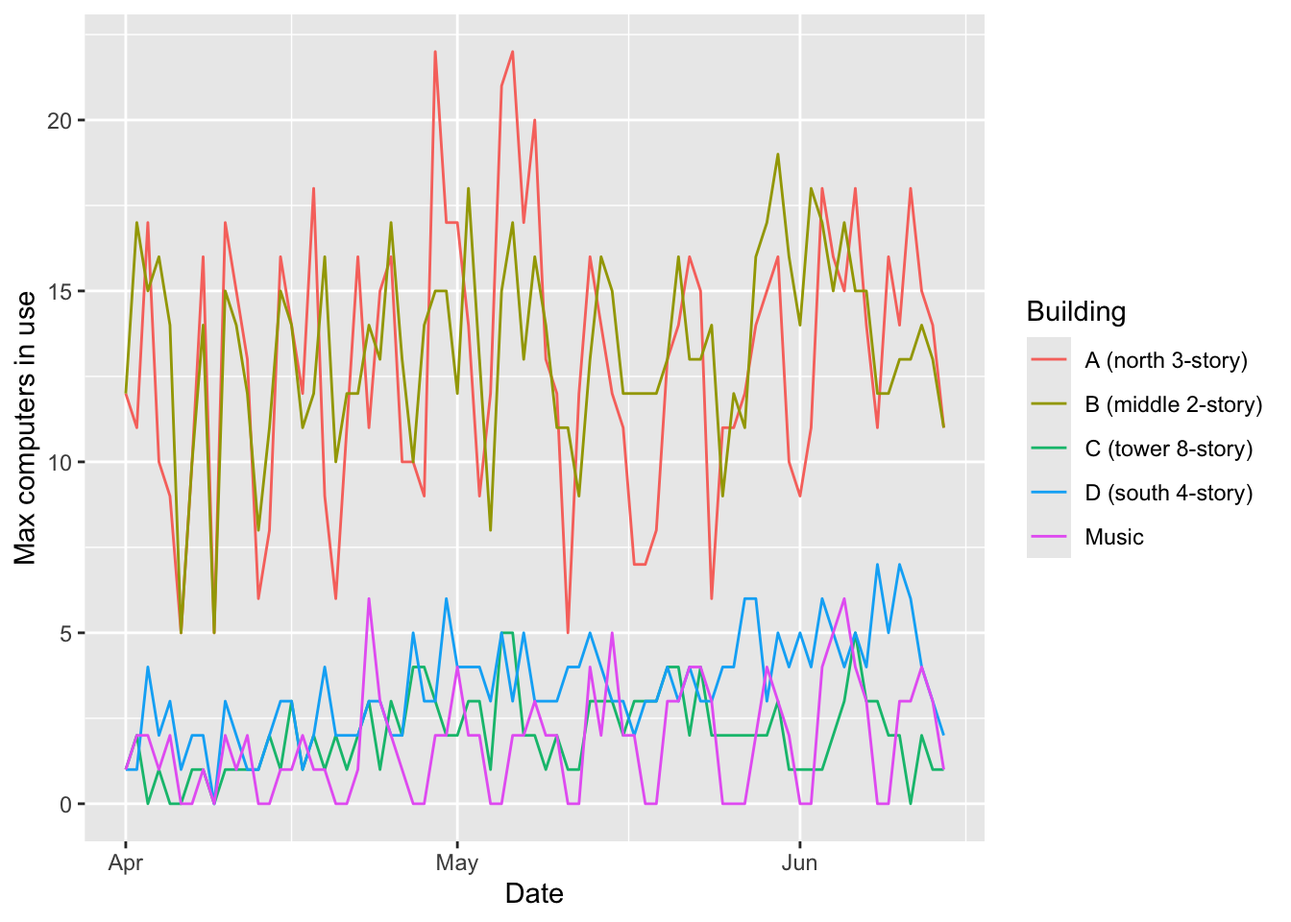
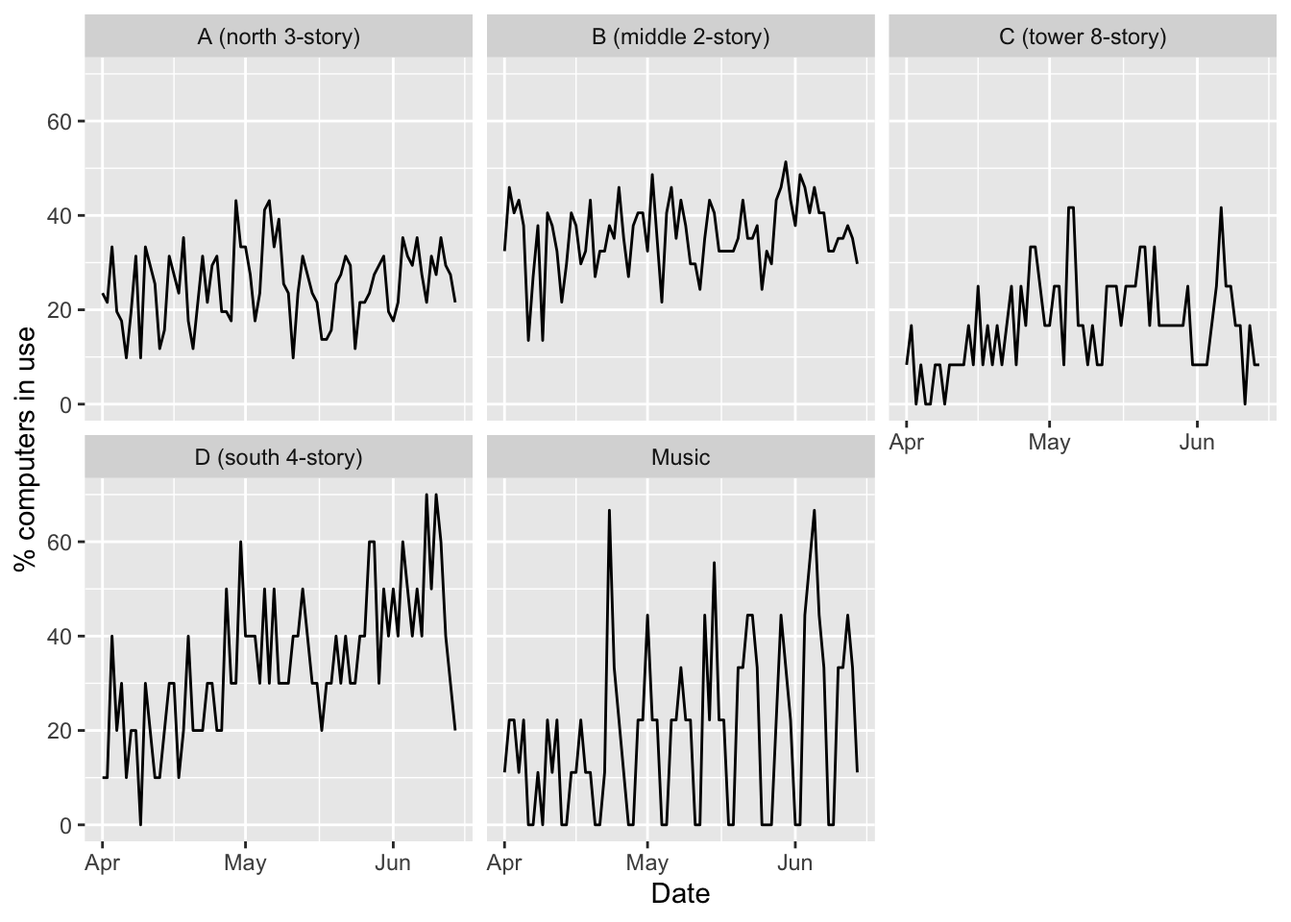
Add percentages to peak usage calculations

diff --git a/stats.html b/stats.html
@@ -254,15 +254,20 @@ pre > code.sourceCode > span > a:first-child::before { text-decoration: underlin
 <span id="cb2-67"><a href="#cb2-67" aria-hidden="true" tabindex="-1"></a>  <span class="fu">arrange</span>(building, floor)</span>
 <span id="cb2-68"><a href="#cb2-68" aria-hidden="true" tabindex="-1"></a></span>
 <span id="cb2-69"><a href="#cb2-69" aria-hidden="true" tabindex="-1"></a><span class="co"># Number of computers in each area (inferred from data, not ground</span></span>
-<span id="cb2-70"><a href="#cb2-70" aria-hidden="true" tabindex="-1"></a><span class="co"># truth)</span></span>
+<span id="cb2-70"><a href="#cb2-70" aria-hidden="true" tabindex="-1"></a><span class="co"># truth)...</span></span>
 <span id="cb2-71"><a href="#cb2-71" aria-hidden="true" tabindex="-1"></a>computers <span class="ot">&lt;-</span> <span class="fu">unique</span>(<span class="fu">select</span>(data, building, floor, area, computer)) <span class="sc">%&gt;%</span></span>
 <span id="cb2-72"><a href="#cb2-72" aria-hidden="true" tabindex="-1"></a>  <span class="fu">group_by</span>(building, floor, area) <span class="sc">%&gt;%</span></span>
 <span id="cb2-73"><a href="#cb2-73" aria-hidden="true" tabindex="-1"></a>  <span class="fu">summarize</span>(<span class="at">num_computers=</span><span class="fu">n</span>())</span>
 <span id="cb2-74"><a href="#cb2-74" aria-hidden="true" tabindex="-1"></a></span>
-<span id="cb2-75"><a href="#cb2-75" aria-hidden="true" tabindex="-1"></a><span class="co"># For convenience, create a dataframe that counts numbers of logins</span></span>
-<span id="cb2-76"><a href="#cb2-76" aria-hidden="true" tabindex="-1"></a>login_data <span class="ot">&lt;-</span> data <span class="sc">%&gt;%</span></span>
-<span id="cb2-77"><a href="#cb2-77" aria-hidden="true" tabindex="-1"></a>  <span class="fu">group_by</span>(<span class="at">date=</span><span class="fu">date</span>(login_time), building, floor, area) <span class="sc">%&gt;%</span></span>
-<span id="cb2-78"><a href="#cb2-78" aria-hidden="true" tabindex="-1"></a>  <span class="fu">summarize</span>(<span class="at">num_logins=</span><span class="fu">n</span>())</span></code><button title="Copy to Clipboard" class="code-copy-button"><i class="bi"></i></button></pre></div>
+<span id="cb2-75"><a href="#cb2-75" aria-hidden="true" tabindex="-1"></a><span class="co"># ...and by building</span></span>
+<span id="cb2-76"><a href="#cb2-76" aria-hidden="true" tabindex="-1"></a>computers_by_building <span class="ot">&lt;-</span> computers <span class="sc">%&gt;%</span></span>
+<span id="cb2-77"><a href="#cb2-77" aria-hidden="true" tabindex="-1"></a>  <span class="fu">group_by</span>(building) <span class="sc">%&gt;%</span></span>
+<span id="cb2-78"><a href="#cb2-78" aria-hidden="true" tabindex="-1"></a>  <span class="fu">summarize</span>(<span class="at">num_computers=</span><span class="fu">sum</span>(num_computers))</span>
+<span id="cb2-79"><a href="#cb2-79" aria-hidden="true" tabindex="-1"></a></span>
+<span id="cb2-80"><a href="#cb2-80" aria-hidden="true" tabindex="-1"></a><span class="co"># For convenience, create a dataframe that counts numbers of logins</span></span>
+<span id="cb2-81"><a href="#cb2-81" aria-hidden="true" tabindex="-1"></a>login_data <span class="ot">&lt;-</span> data <span class="sc">%&gt;%</span></span>
+<span id="cb2-82"><a href="#cb2-82" aria-hidden="true" tabindex="-1"></a>  <span class="fu">group_by</span>(<span class="at">date=</span><span class="fu">date</span>(login_time), building, floor, area) <span class="sc">%&gt;%</span></span>
+<span id="cb2-83"><a href="#cb2-83" aria-hidden="true" tabindex="-1"></a>  <span class="fu">summarize</span>(<span class="at">num_logins=</span><span class="fu">n</span>())</span></code><button title="Copy to Clipboard" class="code-copy-button"><i class="bi"></i></button></pre></div>
 </div>
 </section>
 <section id="analysis" class="level1">
@@ -805,25 +810,21 @@ pre > code.sourceCode > span > a:first-child::before { text-decoration: underlin
 <div class="cell">
 <details class="code-fold">
 <summary>Code</summary>
-<div class="sourceCode cell-code" id="cb20"><pre class="sourceCode r code-with-copy"><code class="sourceCode r"><span id="cb20-1"><a href="#cb20-1" aria-hidden="true" tabindex="-1"></a>computers_by_building <span class="ot">&lt;-</span> computers <span class="sc">%&gt;%</span></span>
-<span id="cb20-2"><a href="#cb20-2" aria-hidden="true" tabindex="-1"></a>  <span class="fu">group_by</span>(building) <span class="sc">%&gt;%</span></span>
-<span id="cb20-3"><a href="#cb20-3" aria-hidden="true" tabindex="-1"></a>  <span class="fu">summarize</span>(<span class="at">num_computers=</span><span class="fu">sum</span>(num_computers))</span>
-<span id="cb20-4"><a href="#cb20-4" aria-hidden="true" tabindex="-1"></a></span>
-<span id="cb20-5"><a href="#cb20-5" aria-hidden="true" tabindex="-1"></a>data <span class="sc">%&gt;%</span></span>
-<span id="cb20-6"><a href="#cb20-6" aria-hidden="true" tabindex="-1"></a>  <span class="fu">group_by</span>(</span>
-<span id="cb20-7"><a href="#cb20-7" aria-hidden="true" tabindex="-1"></a>    <span class="st">`</span><span class="at">Exam week?</span><span class="st">`</span><span class="ot">=</span><span class="fu">in_exam_week</span>(login_time),</span>
-<span id="cb20-8"><a href="#cb20-8" aria-hidden="true" tabindex="-1"></a>    building,</span>
-<span id="cb20-9"><a href="#cb20-9" aria-hidden="true" tabindex="-1"></a>    <span class="fu">date</span>(login_time)</span>
-<span id="cb20-10"><a href="#cb20-10" aria-hidden="true" tabindex="-1"></a>  ) <span class="sc">%&gt;%</span></span>
-<span id="cb20-11"><a href="#cb20-11" aria-hidden="true" tabindex="-1"></a>  <span class="fu">summarize</span>(<span class="at">minutes_used=</span><span class="fu">sum</span>(session_minutes)) <span class="sc">%&gt;%</span></span>
-<span id="cb20-12"><a href="#cb20-12" aria-hidden="true" tabindex="-1"></a>  <span class="fu">group_by</span>(<span class="st">`</span><span class="at">Exam week?</span><span class="st">`</span>, <span class="at">Building=</span>building) <span class="sc">%&gt;%</span></span>
-<span id="cb20-13"><a href="#cb20-13" aria-hidden="true" tabindex="-1"></a>  <span class="fu">summarize</span>(<span class="at">avg_minutes_used=</span><span class="fu">mean</span>(minutes_used)) <span class="sc">%&gt;%</span></span>
-<span id="cb20-14"><a href="#cb20-14" aria-hidden="true" tabindex="-1"></a>  <span class="fu">inner_join</span>(computers_by_building, <span class="at">by=</span><span class="fu">join_by</span>(Building<span class="sc">==</span>building)) <span class="sc">%&gt;%</span></span>
-<span id="cb20-15"><a href="#cb20-15" aria-hidden="true" tabindex="-1"></a>  <span class="fu">mutate</span>(</span>
-<span id="cb20-16"><a href="#cb20-16" aria-hidden="true" tabindex="-1"></a>    <span class="st">`</span><span class="at">% occupied</span><span class="st">`</span><span class="ot">=</span><span class="fu">round</span>(avg_minutes_used<span class="sc">/</span>(num_computers<span class="sc">*</span>open_minutes)<span class="sc">*</span><span class="dv">100</span>, <span class="dv">0</span>)</span>
-<span id="cb20-17"><a href="#cb20-17" aria-hidden="true" tabindex="-1"></a>  ) <span class="sc">%&gt;%</span></span>
-<span id="cb20-18"><a href="#cb20-18" aria-hidden="true" tabindex="-1"></a>  <span class="fu">ggplot</span>(<span class="fu">aes</span>(<span class="at">x=</span>Building, <span class="at">y=</span><span class="st">`</span><span class="at">% occupied</span><span class="st">`</span>, <span class="at">fill=</span><span class="st">`</span><span class="at">Exam week?</span><span class="st">`</span>)) <span class="sc">+</span></span>
-<span id="cb20-19"><a href="#cb20-19" aria-hidden="true" tabindex="-1"></a>    <span class="fu">geom_bar</span>(<span class="at">stat=</span><span class="st">"identity"</span>, <span class="at">position=</span><span class="st">"dodge"</span>)</span></code><button title="Copy to Clipboard" class="code-copy-button"><i class="bi"></i></button></pre></div>
+<div class="sourceCode cell-code" id="cb20"><pre class="sourceCode r code-with-copy"><code class="sourceCode r"><span id="cb20-1"><a href="#cb20-1" aria-hidden="true" tabindex="-1"></a>data <span class="sc">%&gt;%</span></span>
+<span id="cb20-2"><a href="#cb20-2" aria-hidden="true" tabindex="-1"></a>  <span class="fu">group_by</span>(</span>
+<span id="cb20-3"><a href="#cb20-3" aria-hidden="true" tabindex="-1"></a>    <span class="st">`</span><span class="at">Exam week?</span><span class="st">`</span><span class="ot">=</span><span class="fu">in_exam_week</span>(login_time),</span>
+<span id="cb20-4"><a href="#cb20-4" aria-hidden="true" tabindex="-1"></a>    building,</span>
+<span id="cb20-5"><a href="#cb20-5" aria-hidden="true" tabindex="-1"></a>    <span class="fu">date</span>(login_time)</span>
+<span id="cb20-6"><a href="#cb20-6" aria-hidden="true" tabindex="-1"></a>  ) <span class="sc">%&gt;%</span></span>
+<span id="cb20-7"><a href="#cb20-7" aria-hidden="true" tabindex="-1"></a>  <span class="fu">summarize</span>(<span class="at">minutes_used=</span><span class="fu">sum</span>(session_minutes)) <span class="sc">%&gt;%</span></span>
+<span id="cb20-8"><a href="#cb20-8" aria-hidden="true" tabindex="-1"></a>  <span class="fu">group_by</span>(<span class="st">`</span><span class="at">Exam week?</span><span class="st">`</span>, <span class="at">Building=</span>building) <span class="sc">%&gt;%</span></span>
+<span id="cb20-9"><a href="#cb20-9" aria-hidden="true" tabindex="-1"></a>  <span class="fu">summarize</span>(<span class="at">avg_minutes_used=</span><span class="fu">mean</span>(minutes_used)) <span class="sc">%&gt;%</span></span>
+<span id="cb20-10"><a href="#cb20-10" aria-hidden="true" tabindex="-1"></a>  <span class="fu">inner_join</span>(computers_by_building, <span class="at">by=</span><span class="fu">join_by</span>(Building<span class="sc">==</span>building)) <span class="sc">%&gt;%</span></span>
+<span id="cb20-11"><a href="#cb20-11" aria-hidden="true" tabindex="-1"></a>  <span class="fu">mutate</span>(</span>
+<span id="cb20-12"><a href="#cb20-12" aria-hidden="true" tabindex="-1"></a>    <span class="st">`</span><span class="at">% occupied</span><span class="st">`</span><span class="ot">=</span><span class="fu">round</span>(avg_minutes_used<span class="sc">/</span>(num_computers<span class="sc">*</span>open_minutes)<span class="sc">*</span><span class="dv">100</span>, <span class="dv">0</span>)</span>
+<span id="cb20-13"><a href="#cb20-13" aria-hidden="true" tabindex="-1"></a>  ) <span class="sc">%&gt;%</span></span>
+<span id="cb20-14"><a href="#cb20-14" aria-hidden="true" tabindex="-1"></a>  <span class="fu">ggplot</span>(<span class="fu">aes</span>(<span class="at">x=</span>Building, <span class="at">y=</span><span class="st">`</span><span class="at">% occupied</span><span class="st">`</span>, <span class="at">fill=</span><span class="st">`</span><span class="at">Exam week?</span><span class="st">`</span>)) <span class="sc">+</span></span>
+<span id="cb20-15"><a href="#cb20-15" aria-hidden="true" tabindex="-1"></a>    <span class="fu">geom_bar</span>(<span class="at">stat=</span><span class="st">"identity"</span>, <span class="at">position=</span><span class="st">"dodge"</span>)</span></code><button title="Copy to Clipboard" class="code-copy-button"><i class="bi"></i></button></pre></div>
 </details>
 <div class="cell-output-display">
 <div>
@@ -904,13 +905,16 @@ pre > code.sourceCode > span > a:first-child::before { text-decoration: underlin
 </div>
 <section id="overall-maximums-by-area" class="level3">
 <h3 class="anchored" data-anchor-id="overall-maximums-by-area">Overall maximums, by area</h3>
-<p>Again, this is counting computers that are in simultaneous use.</p>
+<p>Again, this is counting computers that are in simultaneous use. And the comment under <a href="#occupancy">Occupancy</a> above applies here as well: the number of computers in each area is inferred from those mentioned in the Cybrarian input data.</p>
 <div class="cell">
 <details class="code-fold">
 <summary>Code</summary>
 <div class="sourceCode cell-code" id="cb23"><pre class="sourceCode r code-with-copy"><code class="sourceCode r"><span id="cb23-1"><a href="#cb23-1" aria-hidden="true" tabindex="-1"></a>in_use_data <span class="sc">%&gt;%</span></span>
 <span id="cb23-2"><a href="#cb23-2" aria-hidden="true" tabindex="-1"></a>  <span class="fu">group_by</span>(<span class="at">Building=</span>building, <span class="at">Floor=</span>floor) <span class="sc">%&gt;%</span></span>
-<span id="cb23-3"><a href="#cb23-3" aria-hidden="true" tabindex="-1"></a>  <span class="fu">summarize</span>(<span class="st">`</span><span class="at">Max computers in use</span><span class="st">`</span><span class="ot">=</span><span class="fu">max</span>(num_in_use))</span></code><button title="Copy to Clipboard" class="code-copy-button"><i class="bi"></i></button></pre></div>
+<span id="cb23-3"><a href="#cb23-3" aria-hidden="true" tabindex="-1"></a>  <span class="fu">summarize</span>(<span class="st">`</span><span class="at">Max computers in use</span><span class="st">`</span><span class="ot">=</span><span class="fu">max</span>(num_in_use)) <span class="sc">%&gt;%</span></span>
+<span id="cb23-4"><a href="#cb23-4" aria-hidden="true" tabindex="-1"></a>  <span class="fu">inner_join</span>(computers, <span class="at">by=</span><span class="fu">join_by</span>(Building<span class="sc">==</span>building, Floor<span class="sc">==</span>floor)) <span class="sc">%&gt;%</span></span>
+<span id="cb23-5"><a href="#cb23-5" aria-hidden="true" tabindex="-1"></a>  <span class="fu">mutate</span>(<span class="st">`</span><span class="at">% of total</span><span class="st">`</span><span class="ot">=</span><span class="fu">round</span>(<span class="st">`</span><span class="at">Max computers in use</span><span class="st">`</span><span class="sc">/</span>num_computers<span class="sc">*</span><span class="dv">100</span>, <span class="dv">0</span>)) <span class="sc">%&gt;%</span></span>
+<span id="cb23-6"><a href="#cb23-6" aria-hidden="true" tabindex="-1"></a>  <span class="fu">select</span>(Building, Floor, <span class="st">`</span><span class="at">Max computers in use</span><span class="st">`</span>, <span class="st">`</span><span class="at">% of total</span><span class="st">`</span>)</span></code><button title="Copy to Clipboard" class="code-copy-button"><i class="bi"></i></button></pre></div>
 </details>
 <div class="cell-output-display">
 <div class="kable-table">
@@ -920,6 +924,7 @@ pre > code.sourceCode > span > a:first-child::before { text-decoration: underlin
 <th style="text-align: left;">Building</th>
 <th style="text-align: right;">Floor</th>
 <th style="text-align: right;">Max computers in use</th>
+<th style="text-align: right;">% of total</th>
 </tr>
 </thead>
 <tbody>
@@ -927,61 +932,73 @@ pre > code.sourceCode > span > a:first-child::before { text-decoration: underlin
 <td style="text-align: left;">A (north 3-story)</td>
 <td style="text-align: right;">1</td>
 <td style="text-align: right;">22</td>
+<td style="text-align: right;">48</td>
 </tr>
 <tr class="even">
 <td style="text-align: left;">A (north 3-story)</td>
 <td style="text-align: right;">2</td>
 <td style="text-align: right;">4</td>
+<td style="text-align: right;">80</td>
 </tr>
 <tr class="odd">
 <td style="text-align: left;">B (middle 2-story)</td>
 <td style="text-align: right;">1</td>
 <td style="text-align: right;">19</td>
+<td style="text-align: right;">59</td>
 </tr>
 <tr class="even">
 <td style="text-align: left;">B (middle 2-story)</td>
 <td style="text-align: right;">2</td>
 <td style="text-align: right;">4</td>
+<td style="text-align: right;">80</td>
 </tr>
 <tr class="odd">
 <td style="text-align: left;">C (tower 8-story)</td>
 <td style="text-align: right;">2</td>
 <td style="text-align: right;">2</td>
+<td style="text-align: right;">50</td>
 </tr>
 <tr class="even">
 <td style="text-align: left;">C (tower 8-story)</td>
 <td style="text-align: right;">5</td>
 <td style="text-align: right;">2</td>
+<td style="text-align: right;">100</td>
 </tr>
 <tr class="odd">
 <td style="text-align: left;">C (tower 8-story)</td>
 <td style="text-align: right;">6</td>
 <td style="text-align: right;">2</td>
+<td style="text-align: right;">100</td>
 </tr>
 <tr class="even">
 <td style="text-align: left;">C (tower 8-story)</td>
 <td style="text-align: right;">7</td>
 <td style="text-align: right;">1</td>
+<td style="text-align: right;">50</td>
 </tr>
 <tr class="odd">
 <td style="text-align: left;">C (tower 8-story)</td>
 <td style="text-align: right;">8</td>
 <td style="text-align: right;">2</td>
+<td style="text-align: right;">100</td>
 </tr>
 <tr class="even">
 <td style="text-align: left;">D (south 4-story)</td>
 <td style="text-align: right;">2</td>
 <td style="text-align: right;">7</td>
+<td style="text-align: right;">78</td>
 </tr>
 <tr class="odd">
 <td style="text-align: left;">D (south 4-story)</td>
 <td style="text-align: right;">4</td>
 <td style="text-align: right;">1</td>
+<td style="text-align: right;">100</td>
 </tr>
 <tr class="even">
 <td style="text-align: left;">Music</td>
 <td style="text-align: right;">2</td>
 <td style="text-align: right;">6</td>
+<td style="text-align: right;">67</td>
 </tr>
 </tbody>
 </table>
@@ -997,9 +1014,13 @@ pre > code.sourceCode > span > a:first-child::before { text-decoration: underlin
 <div class="sourceCode cell-code" id="cb24"><pre class="sourceCode r code-with-copy"><code class="sourceCode r"><span id="cb24-1"><a href="#cb24-1" aria-hidden="true" tabindex="-1"></a>in_use_data <span class="sc">%&gt;%</span></span>
 <span id="cb24-2"><a href="#cb24-2" aria-hidden="true" tabindex="-1"></a>  <span class="fu">group_by</span>(timestamp, building) <span class="sc">%&gt;%</span></span>
 <span id="cb24-3"><a href="#cb24-3" aria-hidden="true" tabindex="-1"></a>  <span class="fu">summarize</span>(<span class="at">num_in_use=</span><span class="fu">sum</span>(num_in_use)) <span class="sc">%&gt;%</span></span>
-<span id="cb24-4"><a href="#cb24-4" aria-hidden="true" tabindex="-1"></a>  <span class="fu">group_by</span>(<span class="at">Building=</span>building, <span class="at">Date=</span><span class="fu">date</span>(timestamp)) <span class="sc">%&gt;%</span></span>
-<span id="cb24-5"><a href="#cb24-5" aria-hidden="true" tabindex="-1"></a>  <span class="fu">summarize</span>(<span class="st">`</span><span class="at">Max computers in use</span><span class="st">`</span><span class="ot">=</span><span class="fu">max</span>(num_in_use)) <span class="sc">%&gt;%</span></span>
-<span id="cb24-6"><a href="#cb24-6" aria-hidden="true" tabindex="-1"></a>  <span class="fu">ggplot</span>(<span class="fu">aes</span>(<span class="at">x=</span>Date, <span class="at">y=</span><span class="st">`</span><span class="at">Max computers in use</span><span class="st">`</span>, <span class="at">color=</span>Building)) <span class="sc">+</span> <span class="fu">geom_line</span>()</span></code><button title="Copy to Clipboard" class="code-copy-button"><i class="bi"></i></button></pre></div>
+<span id="cb24-4"><a href="#cb24-4" aria-hidden="true" tabindex="-1"></a>  <span class="fu">group_by</span>(building, <span class="at">Date=</span><span class="fu">date</span>(timestamp)) <span class="sc">%&gt;%</span></span>
+<span id="cb24-5"><a href="#cb24-5" aria-hidden="true" tabindex="-1"></a>  <span class="fu">summarize</span>(<span class="at">max_in_use=</span><span class="fu">max</span>(num_in_use)) <span class="sc">%&gt;%</span></span>
+<span id="cb24-6"><a href="#cb24-6" aria-hidden="true" tabindex="-1"></a>  <span class="fu">inner_join</span>(computers_by_building, <span class="at">by=</span><span class="fu">join_by</span>(building)) <span class="sc">%&gt;%</span></span>
+<span id="cb24-7"><a href="#cb24-7" aria-hidden="true" tabindex="-1"></a>  <span class="fu">mutate</span>(<span class="st">`</span><span class="at">% computers in use</span><span class="st">`</span><span class="ot">=</span>max_in_use<span class="sc">/</span>num_computers<span class="sc">*</span><span class="dv">100</span>) <span class="sc">%&gt;%</span></span>
+<span id="cb24-8"><a href="#cb24-8" aria-hidden="true" tabindex="-1"></a>  <span class="fu">ggplot</span>(<span class="fu">aes</span>(<span class="at">x=</span>Date, <span class="at">y=</span><span class="st">`</span><span class="at">% computers in use</span><span class="st">`</span>)) <span class="sc">+</span></span>
+<span id="cb24-9"><a href="#cb24-9" aria-hidden="true" tabindex="-1"></a>    <span class="fu">geom_line</span>() <span class="sc">+</span></span>
+<span id="cb24-10"><a href="#cb24-10" aria-hidden="true" tabindex="-1"></a>    <span class="fu">facet_wrap</span>(<span class="sc">~</span>building)</span></code><button title="Copy to Clipboard" class="code-copy-button"><i class="bi"></i></button></pre></div>
 </details>
 <div class="cell-output-display">
 <div>
@@ -1012,28 +1033,14 @@ pre > code.sourceCode > span > a:first-child::before { text-decoration: underlin
 <div class="cell">
 <details class="code-fold">
 <summary>Code</summary>
-<div class="sourceCode cell-code" id="cb25"><pre class="sourceCode r code-with-copy"><code class="sourceCode r"><span id="cb25-1"><a href="#cb25-1" aria-hidden="true" tabindex="-1"></a><span class="co"># Palette generated from https://mokole.com/palette.html</span></span>
-<span id="cb25-2"><a href="#cb25-2" aria-hidden="true" tabindex="-1"></a>palette <span class="ot">&lt;-</span> <span class="fu">c</span>(</span>
-<span id="cb25-3"><a href="#cb25-3" aria-hidden="true" tabindex="-1"></a>  <span class="st">"#228b22"</span>, <span class="co"># forestgreen</span></span>
-<span id="cb25-4"><a href="#cb25-4" aria-hidden="true" tabindex="-1"></a>  <span class="st">"#00008b"</span>, <span class="co"># darkblue</span></span>
-<span id="cb25-5"><a href="#cb25-5" aria-hidden="true" tabindex="-1"></a>  <span class="st">"#ff0000"</span>, <span class="co"># red</span></span>
-<span id="cb25-6"><a href="#cb25-6" aria-hidden="true" tabindex="-1"></a>  <span class="st">"#ffd700"</span>, <span class="co"># gold</span></span>
-<span id="cb25-7"><a href="#cb25-7" aria-hidden="true" tabindex="-1"></a>  <span class="st">"#7fff00"</span>, <span class="co"># chartreuse</span></span>
-<span id="cb25-8"><a href="#cb25-8" aria-hidden="true" tabindex="-1"></a>  <span class="st">"#00ffff"</span>, <span class="co"># aqua</span></span>
-<span id="cb25-9"><a href="#cb25-9" aria-hidden="true" tabindex="-1"></a>  <span class="st">"#ff00ff"</span>, <span class="co"># fuchsia</span></span>
-<span id="cb25-10"><a href="#cb25-10" aria-hidden="true" tabindex="-1"></a>  <span class="st">"#1e90ff"</span>, <span class="co"># dodgerblue</span></span>
-<span id="cb25-11"><a href="#cb25-11" aria-hidden="true" tabindex="-1"></a>  <span class="st">"#ff69b4"</span>, <span class="co"># hotpink</span></span>
-<span id="cb25-12"><a href="#cb25-12" aria-hidden="true" tabindex="-1"></a>  <span class="st">"#ffe4c4"</span>, <span class="co"># bisque</span></span>
-<span id="cb25-13"><a href="#cb25-13" aria-hidden="true" tabindex="-1"></a>  <span class="st">"#2f4f4f"</span>, <span class="co"># darkslategray</span></span>
-<span id="cb25-14"><a href="#cb25-14" aria-hidden="true" tabindex="-1"></a>  <span class="st">"#8b4513"</span>  <span class="co"># saddlebrown</span></span>
-<span id="cb25-15"><a href="#cb25-15" aria-hidden="true" tabindex="-1"></a>)</span>
-<span id="cb25-16"><a href="#cb25-16" aria-hidden="true" tabindex="-1"></a></span>
-<span id="cb25-17"><a href="#cb25-17" aria-hidden="true" tabindex="-1"></a>in_use_data <span class="sc">%&gt;%</span></span>
-<span id="cb25-18"><a href="#cb25-18" aria-hidden="true" tabindex="-1"></a>  <span class="fu">group_by</span>(<span class="at">Area=</span>area, <span class="at">Date=</span><span class="fu">date</span>(timestamp)) <span class="sc">%&gt;%</span></span>
-<span id="cb25-19"><a href="#cb25-19" aria-hidden="true" tabindex="-1"></a>  <span class="fu">summarize</span>(<span class="st">`</span><span class="at">Max computers in use</span><span class="st">`</span><span class="ot">=</span><span class="fu">max</span>(num_in_use)) <span class="sc">%&gt;%</span></span>
-<span id="cb25-20"><a href="#cb25-20" aria-hidden="true" tabindex="-1"></a>  <span class="fu">ggplot</span>(<span class="fu">aes</span>(<span class="at">x=</span>Date, <span class="at">y=</span><span class="st">`</span><span class="at">Max computers in use</span><span class="st">`</span>, <span class="at">color=</span>Area)) <span class="sc">+</span></span>
-<span id="cb25-21"><a href="#cb25-21" aria-hidden="true" tabindex="-1"></a>    <span class="fu">geom_line</span>() <span class="sc">+</span></span>
-<span id="cb25-22"><a href="#cb25-22" aria-hidden="true" tabindex="-1"></a>    <span class="fu">scale_color_manual</span>(<span class="at">values=</span>palette)</span></code><button title="Copy to Clipboard" class="code-copy-button"><i class="bi"></i></button></pre></div>
+<div class="sourceCode cell-code" id="cb25"><pre class="sourceCode r code-with-copy"><code class="sourceCode r"><span id="cb25-1"><a href="#cb25-1" aria-hidden="true" tabindex="-1"></a>in_use_data <span class="sc">%&gt;%</span></span>
+<span id="cb25-2"><a href="#cb25-2" aria-hidden="true" tabindex="-1"></a>  <span class="fu">group_by</span>(area, <span class="at">Date=</span><span class="fu">date</span>(timestamp)) <span class="sc">%&gt;%</span></span>
+<span id="cb25-3"><a href="#cb25-3" aria-hidden="true" tabindex="-1"></a>  <span class="fu">summarize</span>(<span class="at">max_in_use=</span><span class="fu">max</span>(num_in_use)) <span class="sc">%&gt;%</span></span>
+<span id="cb25-4"><a href="#cb25-4" aria-hidden="true" tabindex="-1"></a>  <span class="fu">inner_join</span>(computers, <span class="at">by=</span><span class="fu">join_by</span>(area)) <span class="sc">%&gt;%</span></span>
+<span id="cb25-5"><a href="#cb25-5" aria-hidden="true" tabindex="-1"></a>  <span class="fu">mutate</span>(<span class="st">`</span><span class="at">% computers in use</span><span class="st">`</span><span class="ot">=</span>max_in_use<span class="sc">/</span>num_computers<span class="sc">*</span><span class="dv">100</span>) <span class="sc">%&gt;%</span></span>
+<span id="cb25-6"><a href="#cb25-6" aria-hidden="true" tabindex="-1"></a>  <span class="fu">ggplot</span>(<span class="fu">aes</span>(<span class="at">x=</span>Date, <span class="at">y=</span><span class="st">`</span><span class="at">% computers in use</span><span class="st">`</span>)) <span class="sc">+</span></span>
+<span id="cb25-7"><a href="#cb25-7" aria-hidden="true" tabindex="-1"></a>    <span class="fu">geom_line</span>() <span class="sc">+</span></span>
+<span id="cb25-8"><a href="#cb25-8" aria-hidden="true" tabindex="-1"></a>    <span class="fu">facet_wrap</span>(<span class="sc">~</span>area)</span></code><button title="Copy to Clipboard" class="code-copy-button"><i class="bi"></i></button></pre></div>
 </details>
 <div class="cell-output-display">
 <div>
